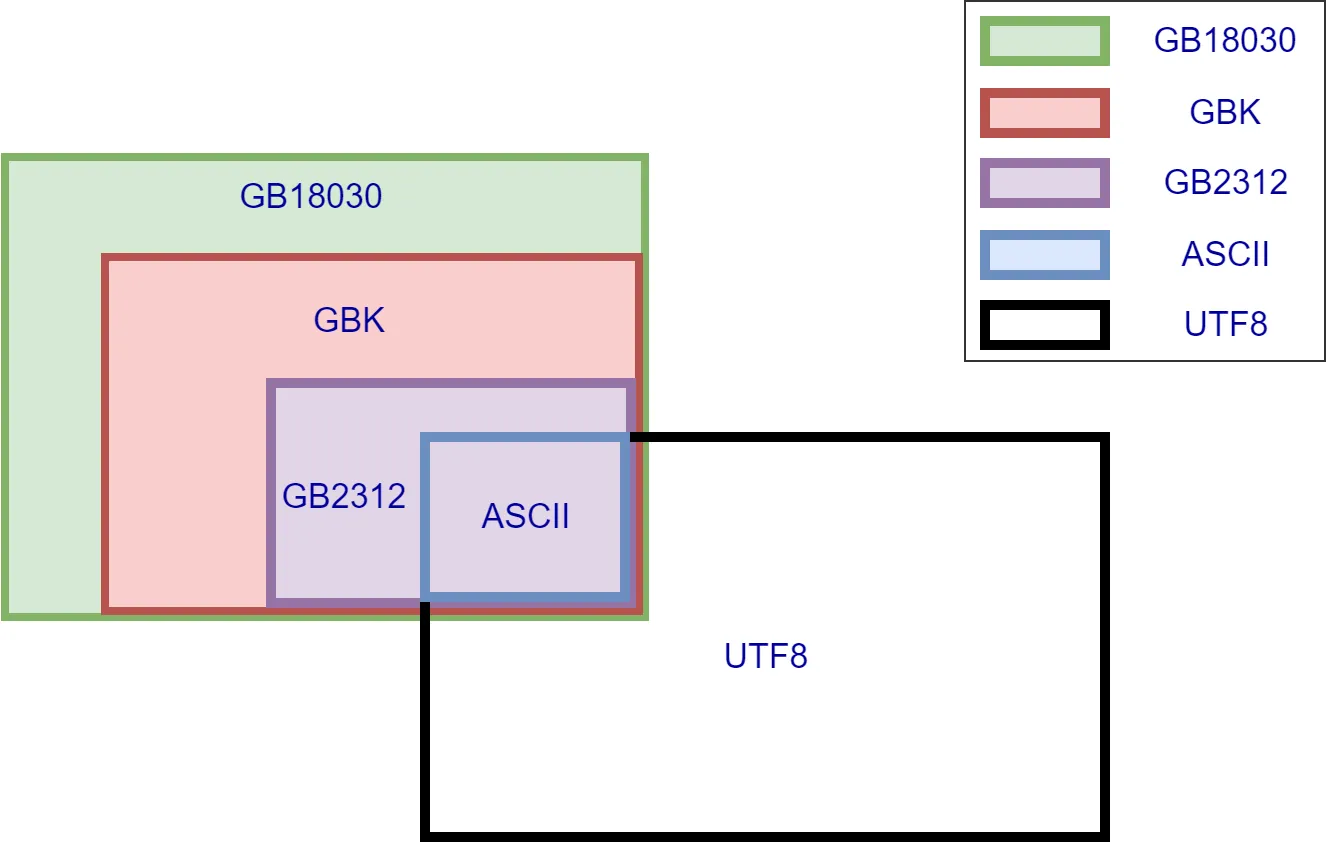
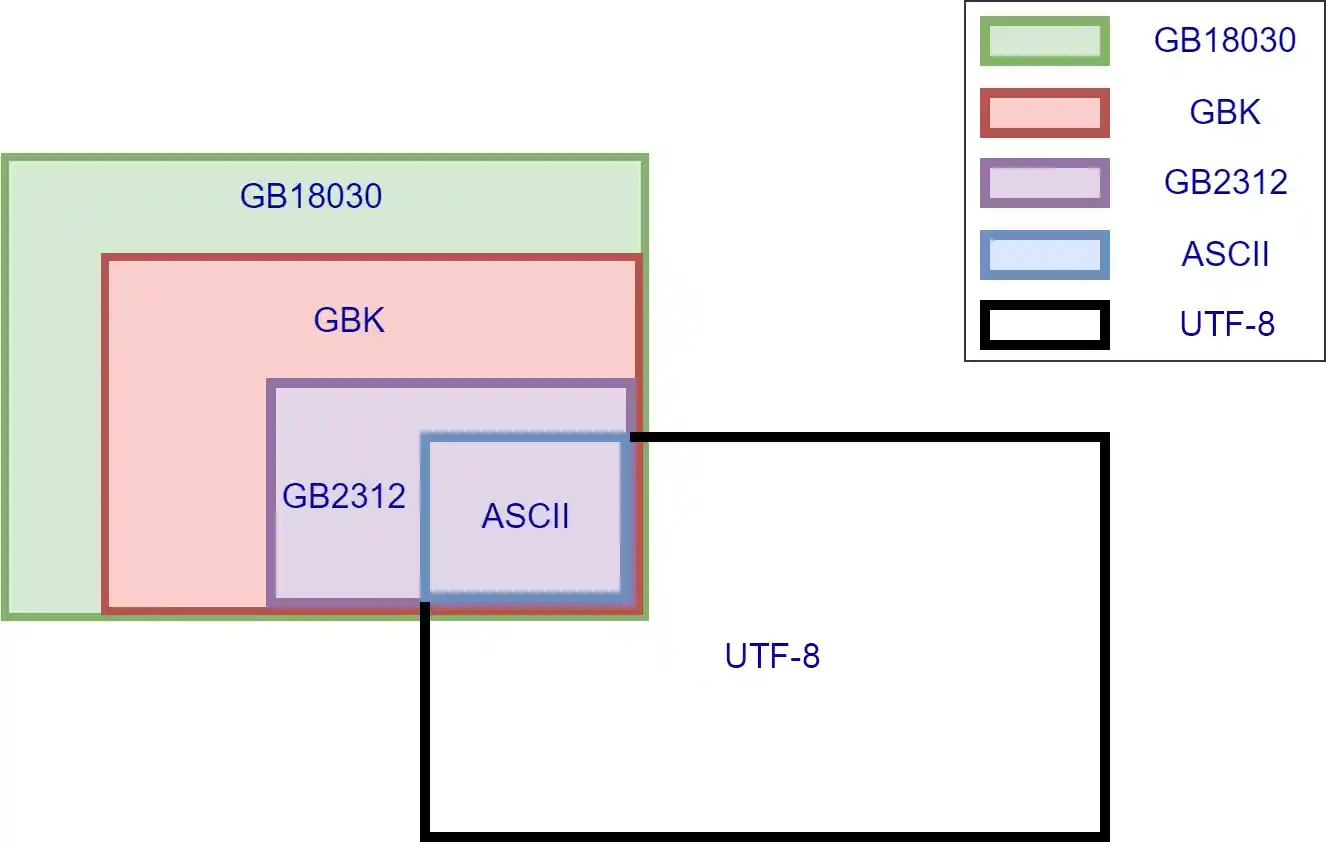
revise: drive-your-computer-1

diff --git a/basic/05-drive-your-computer-1.md b/basic/05-drive-your-computer-1.md
@@ -3,7 +3,7 @@
 ::: info 本文信息
 作者：decmofofs [https://github.com/decmofofs]
 
-状态：未审阅的草稿版本
+状态：已审阅的发布版，审阅人：Horbin
 :::
 
 # 前言
@@ -106,7 +106,7 @@ MSVC（Microsoft Visual C/C++）是微软开发的一套Windows下的C/C++编译
 
 2. 点击任务栏的Windows徽标，搜索“环境变量”，找到“编辑系统环境变量”，点击进入，找到界面右下角的“环境变量(N)..."按钮，进入后，在**<u>系统变量</u>**栏找到**<u>Path</u>**，双击后，点击"新建(N)"，键入引号<u>**里面**</u>的内容： "C:\mingw64_14.1.0\bin" , 然后依次对三个窗口点击确定。
 
-（请确定"C:\mingw64_14.1.0\bin"是真实存在的路径，其中包括`g++.exe`如果不是，请根据实际情况修改）
+（请确定"C:\mingw64_14.1.0\bin"是真实存在的路径，其中包括`g++.exe`，如果不是，请根据实际情况修改）
 
 #### 如何在VS Code中安装合适的插件？
 
@@ -128,7 +128,7 @@ MSVC（Microsoft Visual C/C++）是微软开发的一套Windows下的C/C++编译
 
 #### VS Code如何打开文件夹、将工作设置保存到工作区便于取用？
 
-1. 点击左侧边栏第一个按钮，点击打开文件夹，浏览到想要得到位置打开。
+1. 点击左侧边栏第一个按钮，点击打开文件夹，浏览到所需位置并打开。
 2. 点击界面上方的“文件”按钮，找到“另存为工作区”，选择一个位置来保存工作区设置。
 3. 点击界面上方的“文件”按钮，点击“从文件打开工作区”，浏览到刚才保存的文件，打开它。
 4. 如果想在这个工作区添加不同文件夹，如"C++""Python"来便于管理作业，请点击界面上方的“文件”按钮，点击”将文件夹添加到工作区“。
@@ -525,7 +525,7 @@ alias c++='c++-14'
 图中可以看到，ASCII编码是图中其他编码的子集，因此用它保存的文本，用其他编码都可以打开。（UTF-16，UTF-32等除外）。
 
 ::: info 提示
-我们常用的可以显示中文字符的编码是**UTF8** ，较老的文档中也会使用GB2312等国标编码，这些编码与UTF8不兼容。
+我们常用的可以显示中文字符的编码是**UTF-8** ，较老的文档中也会使用GB2312等国标编码，这些编码与UTF-8不兼容。
 :::
 
 记事本和VS Code都会在当前界面的右下角显示目前使用的编码格式。通常，这类文本编辑器会自行检测打开的文件使用的编码，如果检测失败，可以手动切换。
